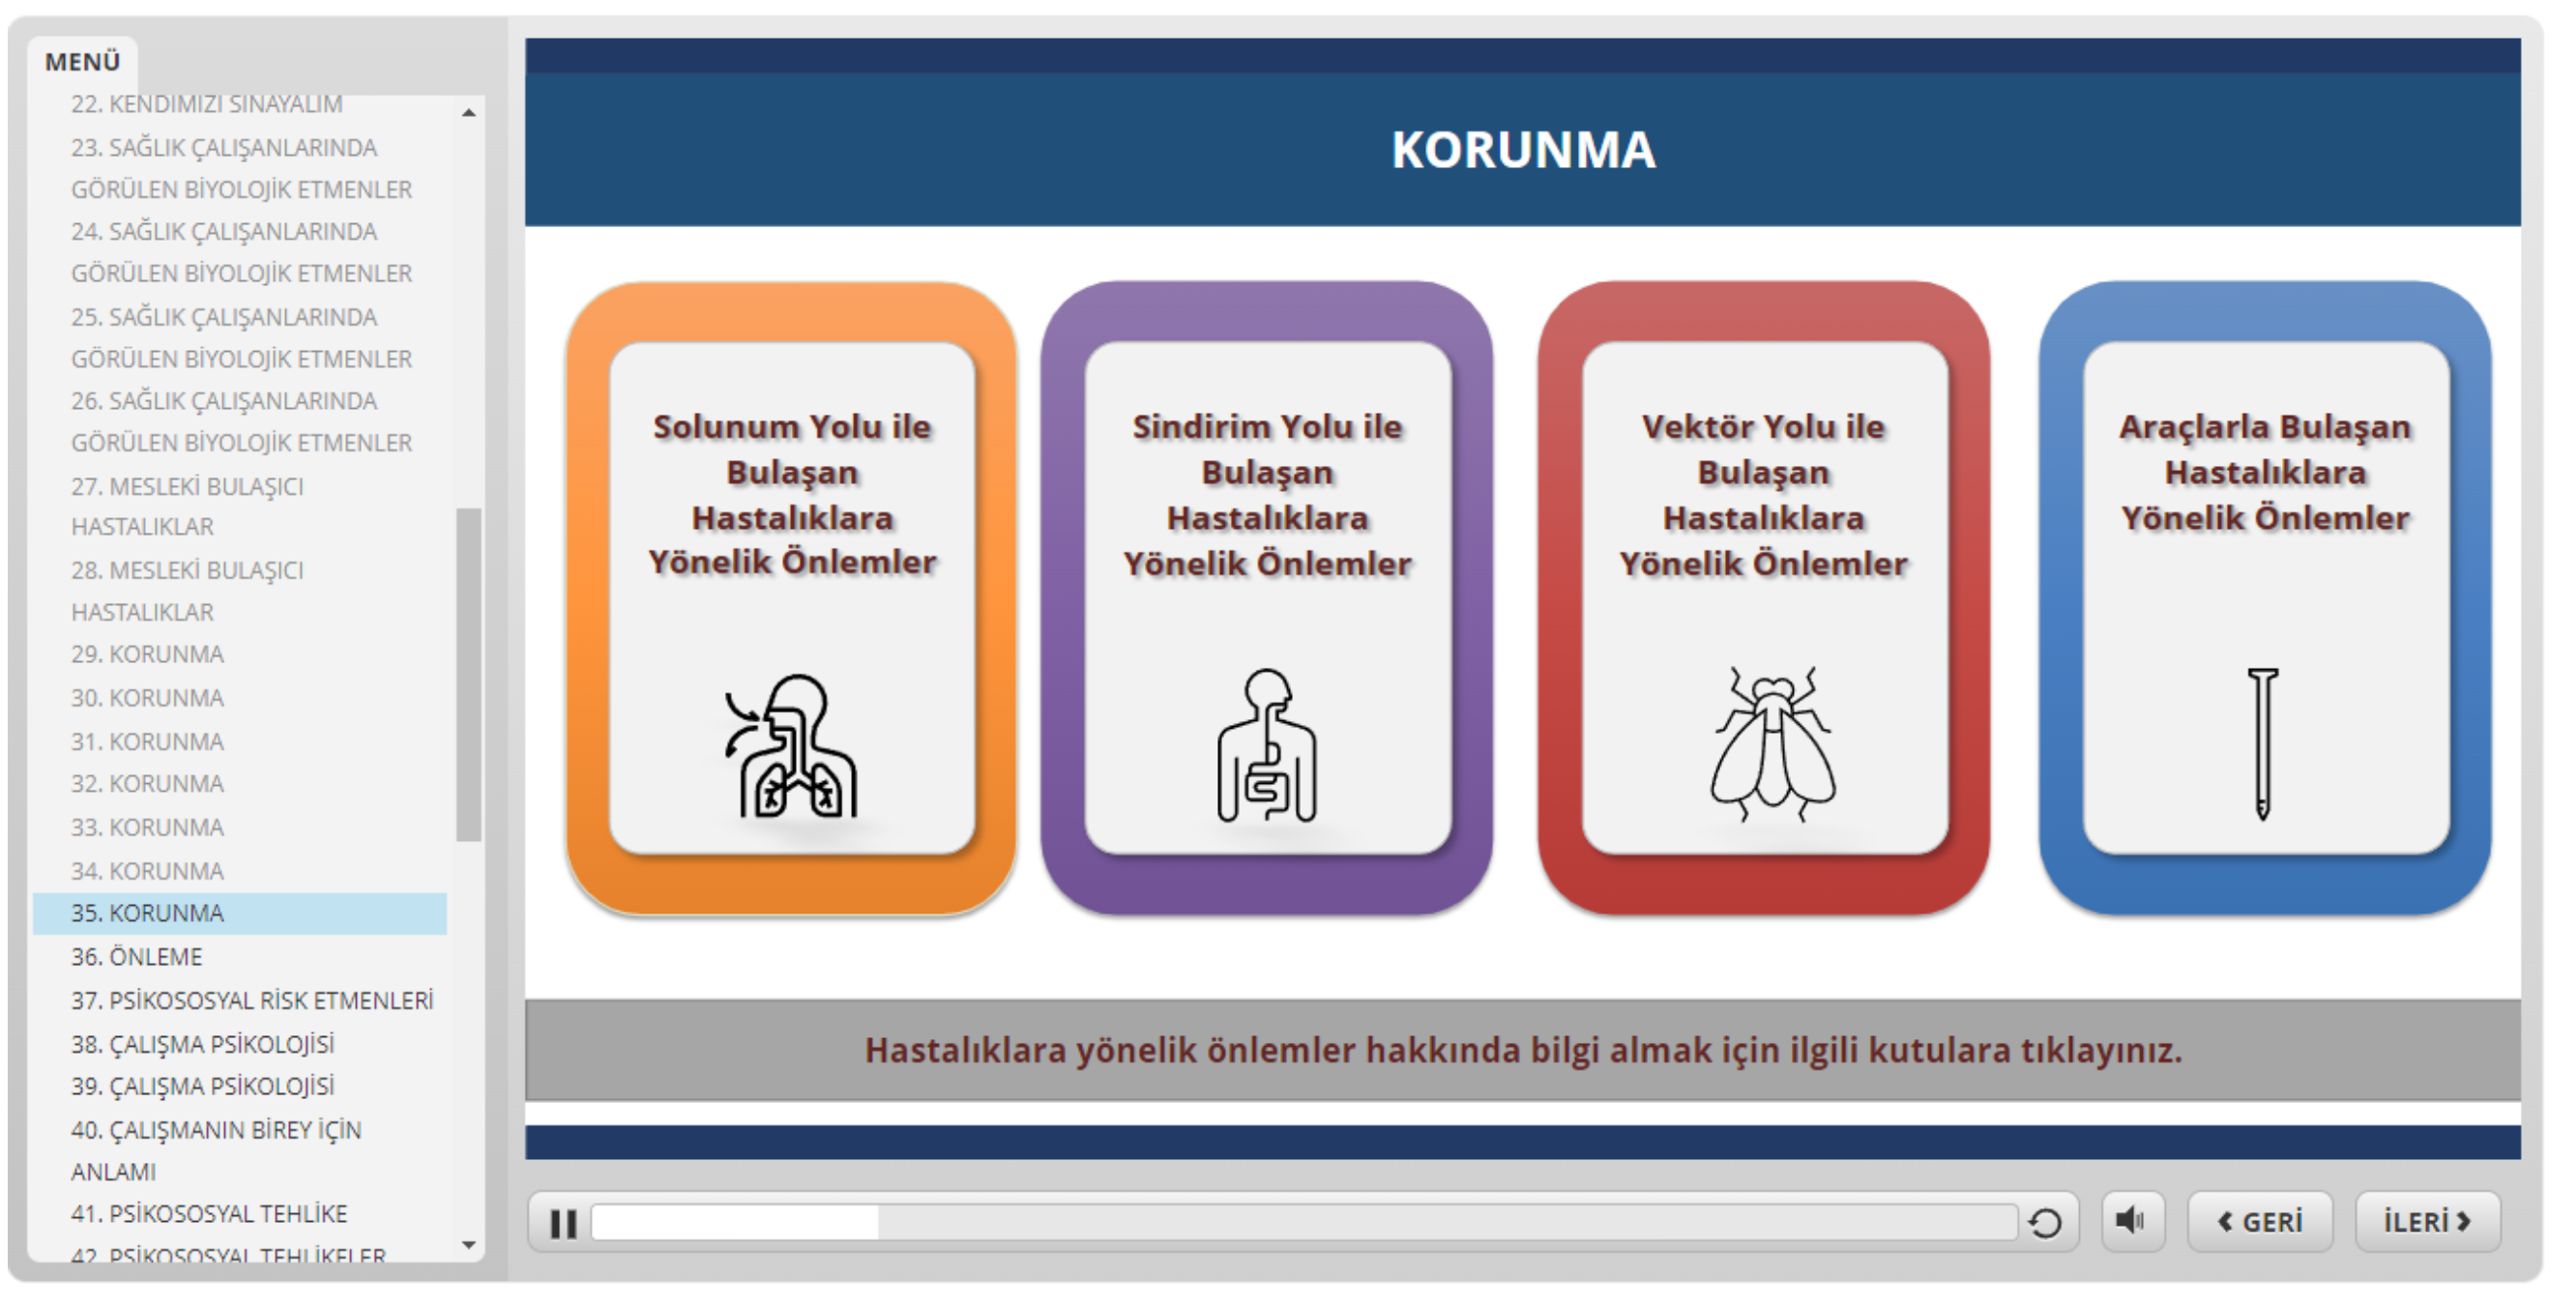
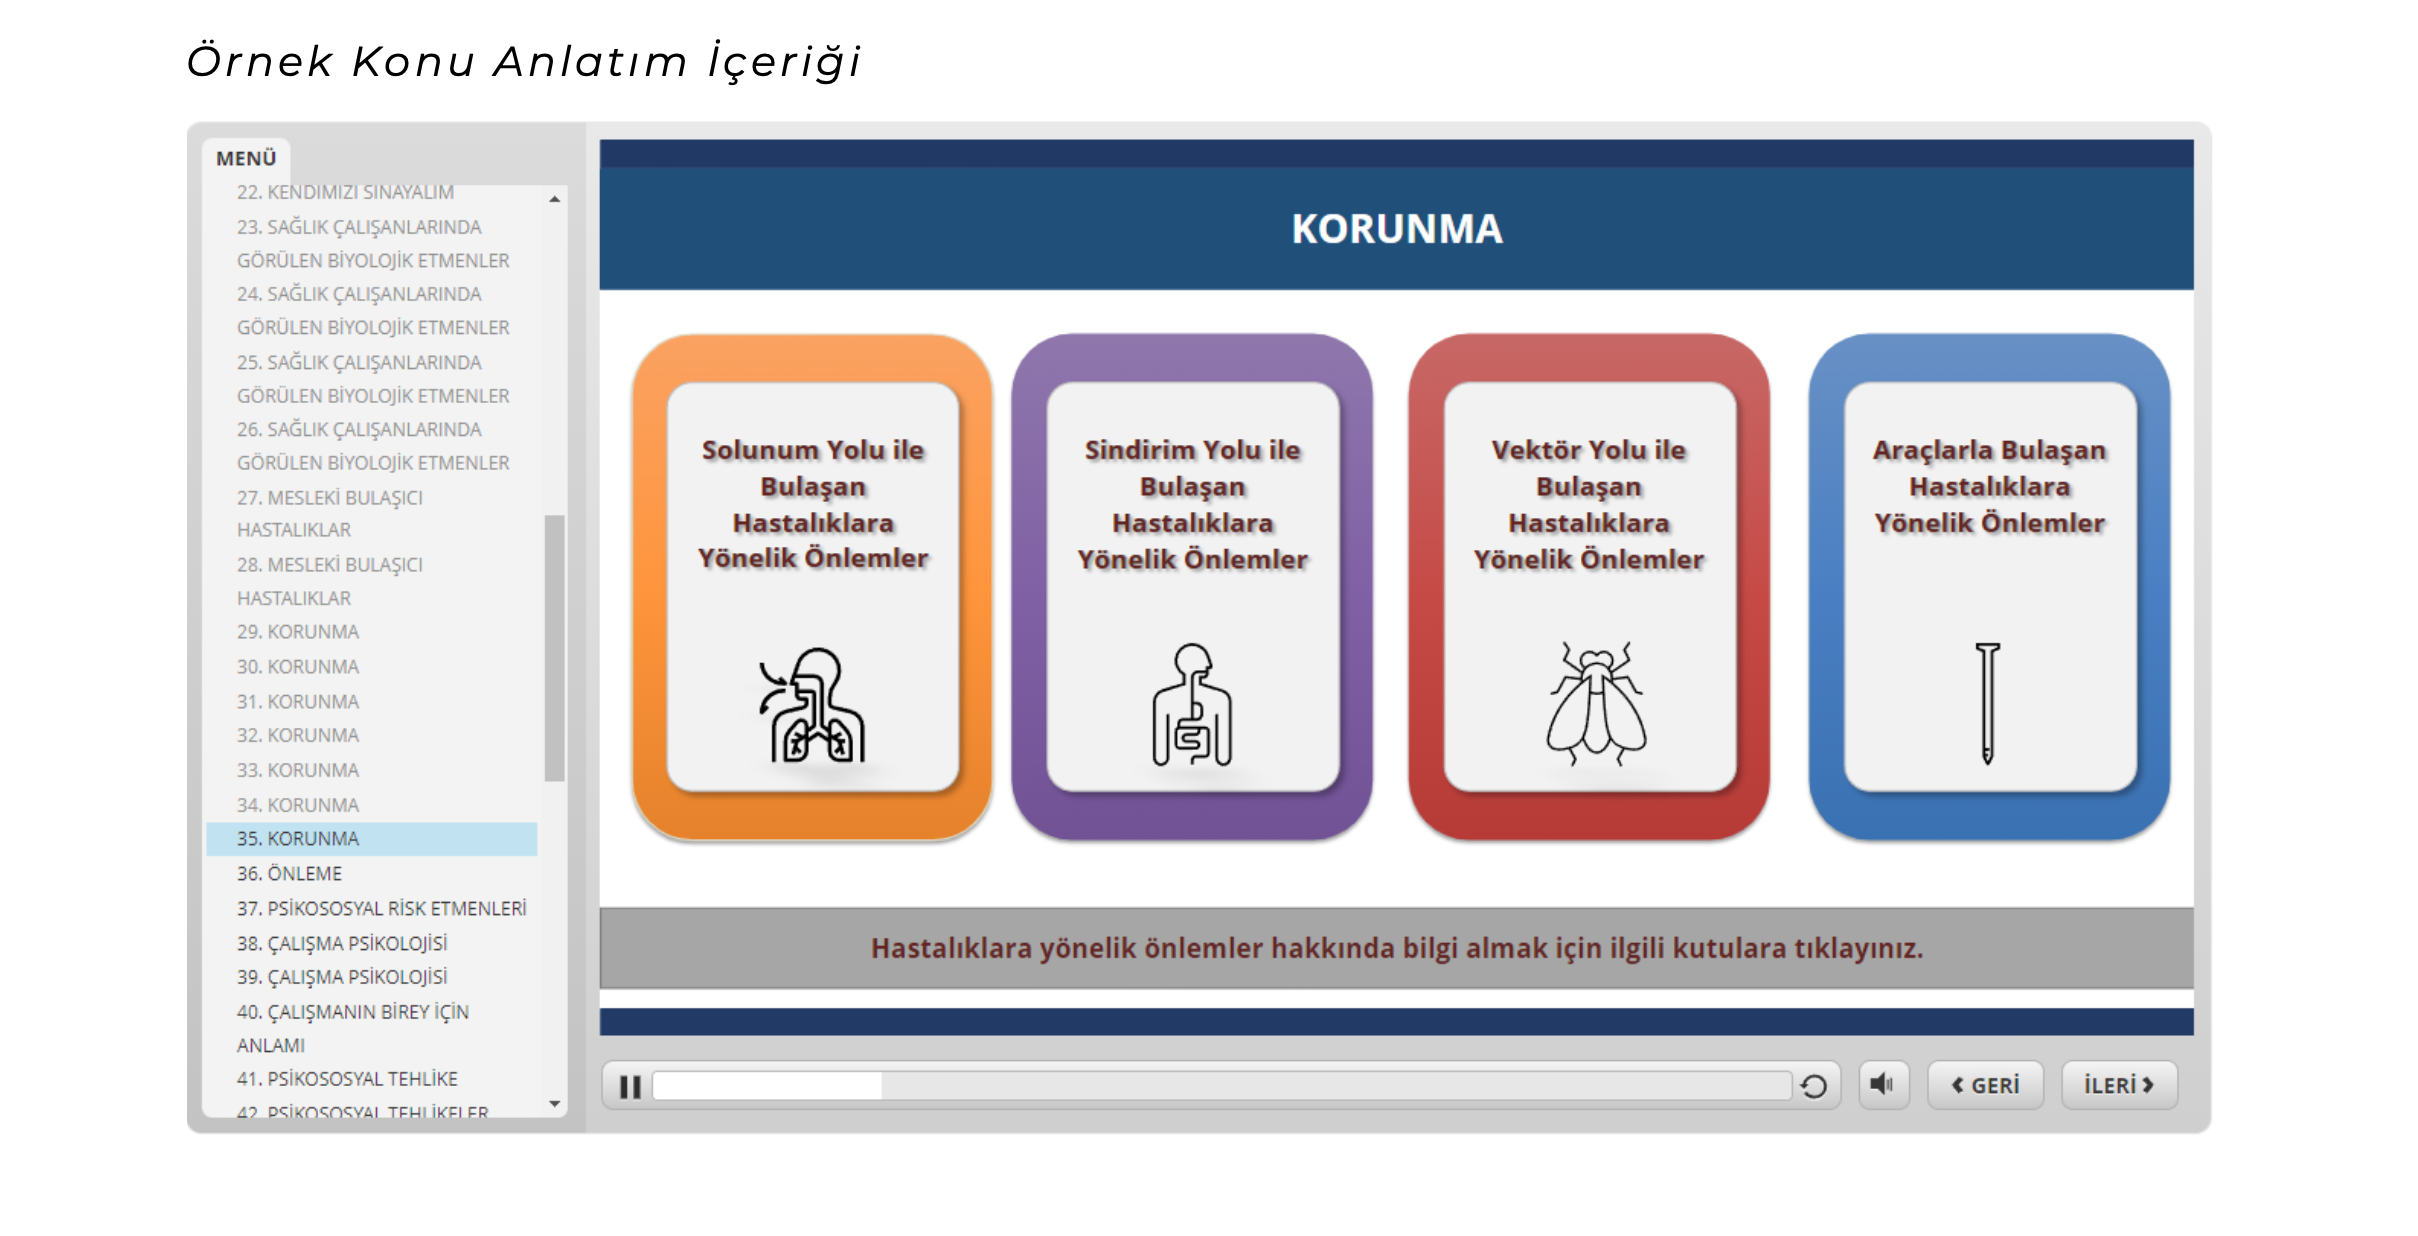
Portfolyo güncellemesi

diff --git a/index.html b/index.html
@@ -112,9 +112,29 @@
   .proj-body p{color:var(--muted); font-size:14.5px; max-width:640px; margin:14px 0 18px; line-height:1.65;}
   .proj-shot{
     width:100%; max-width:520px; aspect-ratio:16/10; border-radius:10px; overflow:hidden;
-    border:1px solid var(--line-strong); background:var(--bg-soft-2);
+    border:1px solid var(--line-strong); background:var(--bg-soft-2); position:relative; cursor:zoom-in;
   }
-  .proj-shot img{width:100%; height:100%; object-fit:cover; display:block;}
+  .proj-shot img{width:100%; height:100%; object-fit:cover; display:block; transition:transform .35s ease;}
+  .proj-shot:hover img{transform:scale(1.04);}
+  .proj-shot::after{
+    content:'⤢ büyüt'; position:absolute; right:10px; bottom:10px; font-family:'Space Mono',monospace;
+    font-size:11px; color:#fff; background:rgba(21,21,26,.72); padding:5px 9px; border-radius:6px;
+    opacity:0; transition:opacity .2s ease; pointer-events:none;
+  }
+  .proj-shot:hover::after{opacity:1;}
+  .lightbox{
+    position:fixed; inset:0; background:rgba(15,15,18,.88); display:none; align-items:center; justify-content:center;
+    z-index:999; padding:40px; cursor:zoom-out;
+  }
+  .lightbox.open{display:flex;}
+  .lightbox img{max-width:min(1100px,92vw); max-height:88vh; border-radius:10px; box-shadow:0 20px 60px rgba(0,0,0,.4); cursor:default;}
+  .lightbox-close{
+    position:absolute; top:24px; right:32px; width:40px; height:40px; border-radius:50%;
+    background:rgba(255,255,255,.08); border:1px solid rgba(255,255,255,.25); color:#fff;
+    font-size:20px; line-height:1; display:flex; align-items:center; justify-content:center; cursor:pointer;
+  }
+  .lightbox-close:hover{background:rgba(255,255,255,.18);}
+  @media(max-width:700px){.lightbox{padding:16px;} .lightbox-close{top:14px; right:16px;}}
   .proj-link{
     display:inline-flex; align-items:center; gap:8px; margin-top:14px;
     font-family:'Space Mono',monospace; font-size:12px; color:var(--accent);
@@ -552,6 +572,32 @@
     tile.appendChild(name);
     grid.appendChild(tile);
   });
+</script>
+<div class="lightbox" id="lightbox">
+  <div class="lightbox-close" id="lightbox-close">×</div>
+  <img src="" alt="" id="lightbox-img">
+</div>
+<script>
+(function(){
+  const lightbox = document.getElementById('lightbox');
+  const lightboxImg = document.getElementById('lightbox-img');
+  const closeBtn = document.getElementById('lightbox-close');
+  document.querySelectorAll('.proj-shot img').forEach(img=>{
+    img.addEventListener('click', ()=>{
+      lightboxImg.src = img.src;
+      lightboxImg.alt = img.alt;
+      lightbox.classList.add('open');
+      document.body.style.overflow = 'hidden';
+    });
+  });
+  function closeLightbox(){
+    lightbox.classList.remove('open');
+    document.body.style.overflow = '';
+  }
+  closeBtn.addEventListener('click', closeLightbox);
+  lightbox.addEventListener('click', (e)=>{ if(e.target === lightbox) closeLightbox(); });
+  document.addEventListener('keydown', (e)=>{ if(e.key === 'Escape') closeLightbox(); });
+})();
 </script>
 </body>
 </html>